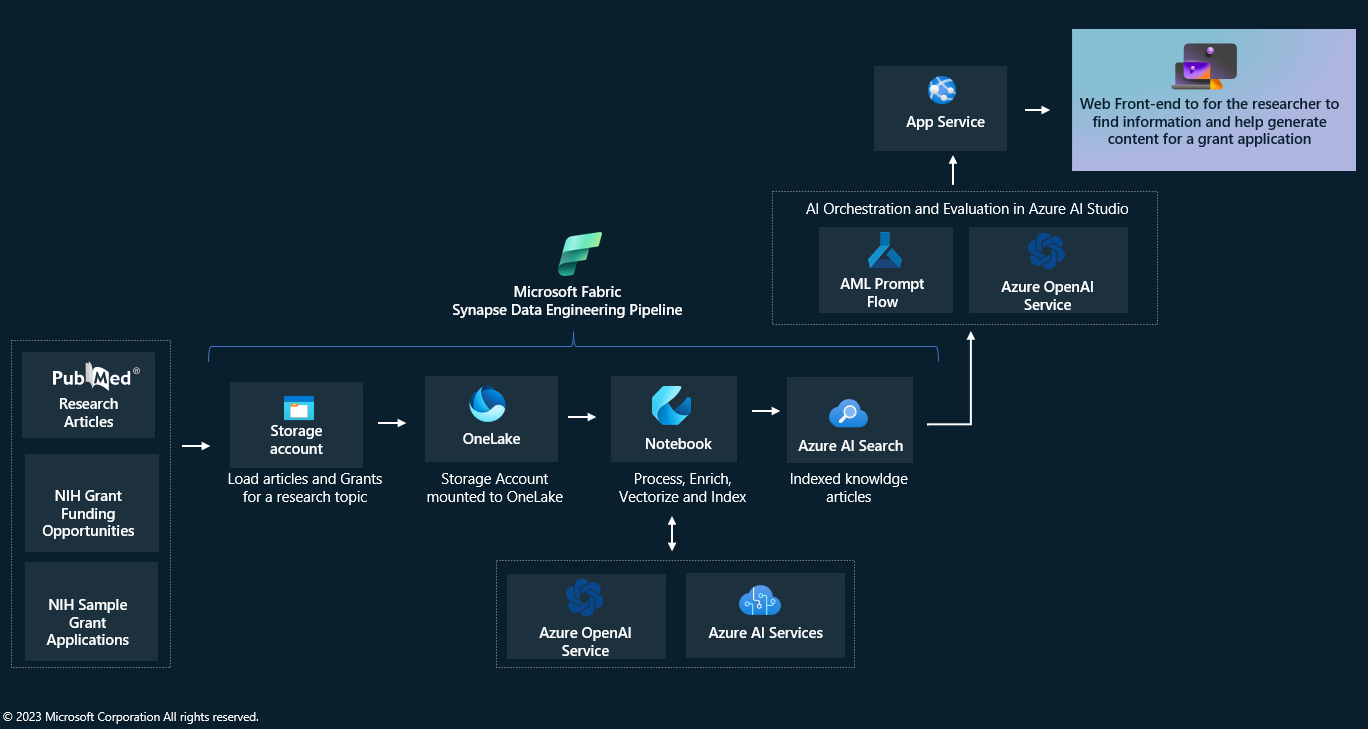
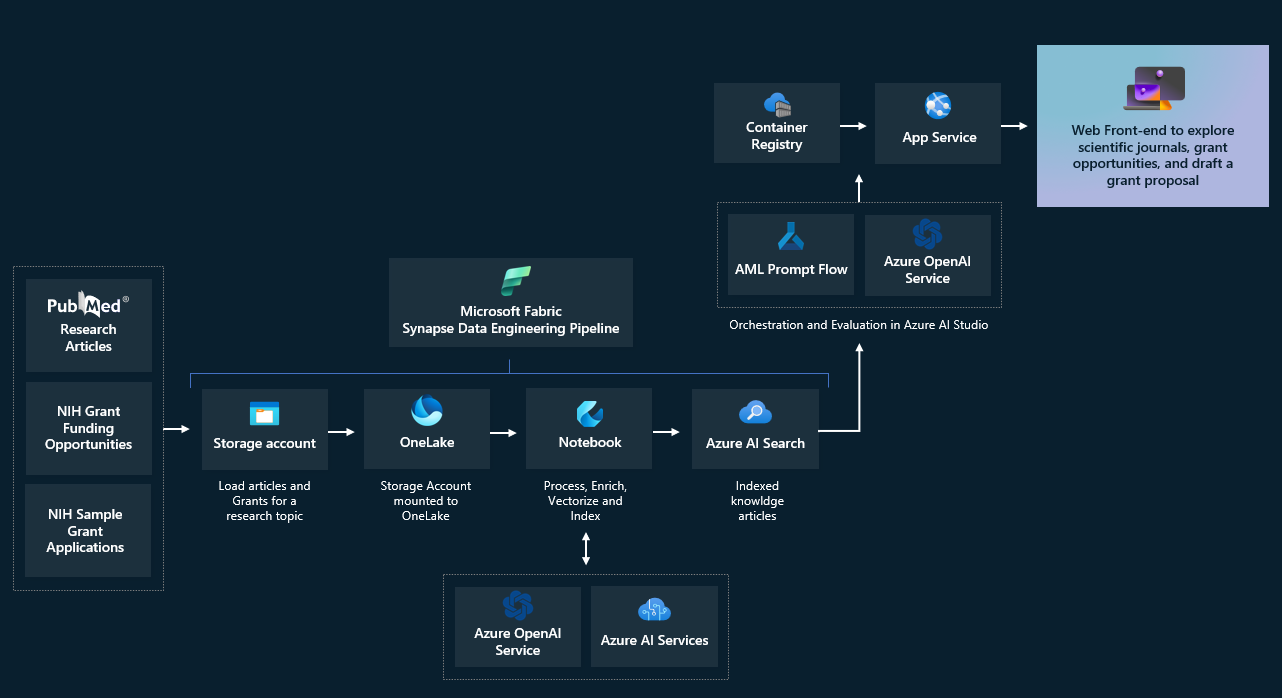
Readme and Deployment Steps Changes

diff --git a/README.md b/README.md
@@ -3,32 +3,32 @@
 MENU: [**USER STORY**](#user-story) \| [**ONE-CLICK DEPLOY**](#one-click-deploy)  \| [**SUPPORTING DOCUMENTS**](#supporting-documents) \|
 [**CUSTOMER TRUTH**](#customer-truth)
 
-<h2><img src="images/readMe/userStory.png" width="64">
+<h2><img src="Deployment/images/readMe/userStory.png" width="64">
 <br/>
 User story
 </h2>
 
 **Solution accelerator overview**
 
-This solution accelerator helps you build your own AI assistant quickly using Azure OpenAI Service, Azure AI Search and Microsoft Fabric. While we have used Research Assistant as an example scenario, this can be used by any customers looking for reusable architecture and code snippets to build AI assistants with their own enterprise data. More details TBD.
+This solution accelerator helps build your own AI assistants quickly using Azure Open AI Service, Azure AI Search and Microsoft Fabric. While we have used Research Grant Writer Assistant as an example scenario, this can be used by any customer looking for reusable architecture and code snippets to build AI assistants with their own enterprise data.
 
 **Scenario**
 
-This example scenario shows how a researcher can use AI to find relevant research articles and grants available for a topic. It also helps the researcher create a draft grant proposal quickly.
+The Grant Writer assistant helps the researchers find relevant articles and grants available for their research topic easily using a conversational chatbot. It also accelerates the grant application creation process with the power of large language models and content generation techniques. Researcher can generate different sections of a grant application with a simple button click, then they can refine the prompts and regenerate individual sections to add more details as needed. Finally, the generated grant application can be exported as a PDF or a Microsoft Word document for further processing.
 
 **Key features**
 
-- **Fabric for Data Engineering at scale**  Fabric Description TBD.
-- **Azure AI Search as vector store** Azure AI Search Description TBD
-- **Azure Open AI Service** Azure Open AI Description TBD
-- **Azure AI Studio** AI Studio Description TBD
-- **Prompt Flow Evaluation** LLM Evaluation Description TBD
+- **Fabric for Data Engineering at scale**  Fabric pipelines help process data mounted from Azure Storage Account at scale and add to AI search index with vector embeddings.
+- **Azure AI Search as vector store** Azure AI search to enable Retrieval Augmented Generation and ground the application on collected articles and grants dataset.
+- **Azure Open AI Service** Azure Open AI service to help researchers in content search, summarization and text generation for grant application drafts.
+- **Azure AI Studio** AI Studio to help build the chat and text generation flow deployments easily and to also validate and improve the LLM responses.
+- **Prompt Flow Evaluation** Promptflow evaluation tools to help test the flows for relevance,groundedness and any harmful content generation.
 
-**Below is an image of the solution accelerator.**\
-\
-![image](images/readMe/landing_page.png)
+**Below is an image of the solution accelerator.**
+    ![Landing Page](/Deployment/images/readMe/landing_page.png)
 
-<h2><img src="images/readMe/oneClickDeploy.png" width="64">
+
+<h2><img src="Deployment/images/readMe/oneClickDeploy.png" width="64">
 <br/>
 One-click deploy
 </h2>
@@ -44,7 +44,7 @@ For additional training and support, please see:
 3. [Microsoft Fabric](https://learn.microsoft.com/en-us/fabric/) 
 
 ### Solution accelerator architecture
-![image](/images/readMe/image4.png)
+![image](/Deployment/images/readMe/architecture.png)
 
 ### **How to install/deploy**
 
@@ -52,16 +52,25 @@ For additional training and support, please see:
 
    [![Deploy to Azure](https://aka.ms/deploytoazurebutton)](https://portal.azure.com/#create/Microsoft.Template/uri/https%3A%2F%2Fraw.githubusercontent.com%2Fnchandhi%2Fncbyctestrepo%2Fmain%2FDeployment%2Fbicep%2Fmain.json)
 
-2.  Most fields will have a default name set already. You will need to update the following settings:
+2. You will need to select an Azure Subscription, create/select a Resource group, Region and a unique Solution Prefix.
 
-3.   When deployment is complete, launch the application by navigating to
+   ![image](/Deployment/images/readMe/armDeployment.png)
+
+3. When deployment is complete, launch the application by navigating to
     your Azure resource group, choosing the app service resource, and
     clicking on the default domain. You should bookmark this URL to have quick access to your deployed application.
+
+4. Follow steps in [AI Studio Deployment guide](./Deployment/AIStudioDeployment.md) to set up the grant draft proposal endpoint.
+
+<!-- 5. Follow steps in [Fabric Deployment guide](./Deployment/FabricPipelines.md) to set up the data processing pipelines. -->
+
+6. Follow steps in [Promptflow Evaluation guide](./Deployment/PromptFlowEvaluation.md) to set up the the evaluation flows.
+
 
 
 <br/>
 <br>
-<h2><img src="images/readMe/customerTruth.png" width="64">
+<h2><img src="Deployment/images/readMe/customerTruth.png" width="64">
 </br>
 Customer truth
 </h2>

diff --git a/Deployment/AIStudioDeployment.md b/Deployment/AIStudioDeployment.md
@@ -1,0 +1,109 @@
+# AI Studio Deployment Guide 
+Please follow the steps below to set up the AI Studio Hub, Project, PromptFlow and Deploy as endpoint. Clone or download this repository before you start following the steps below.
+
+## Step 1: Create AI Studio Project
+1. Launch the AI Studio [AI Studio](https://ai.azure.com/)
+2. Click on `New AI Project`
+
+   ![New AI Project](/Deployment/images/aiStudio/NewProject.png)
+
+3. Enter a Project Name and click on `Create a New Resource`
+    ![Getting Started](/Deployment/images/aiStudio/GettingStarted.png)
+
+4. Enter a new AI Hub Resource Name. And then select Azure Subscription, Resource Group, Location from drop-down menus. You should choose the same resource group you created from ARM deployment in previous step. 
+    > NOTE: Do not create new resources in this step and link to the ones created during one-click deployment.
+
+    ![Create AI Hub](/Deployment/images/aiStudio/CreateAIHub.png)
+
+    ![Select Resource Group](/Deployment/images/aiStudio/SelectResourceGroup.png)
+
+5. Select Azure OpenAI resource from drop-down menu.
+
+6. Select Azure AI Search resource from drop-down menu.
+
+7. Click on `Next` button
+
+8. Review the details and click on `Create an AI Project` button.
+
+    ![Review and Finish](/Deployment/images/aiStudio/ReviewFinish.png)
+
+
+[Learn more about AI Studio Projects](https://learn.microsoft.com/en-us/azure/ai-studio/how-to/create-projects)
+
+
+## Step 2: Import Prompt Flow and Deploy
+
+1. Click on `PromptFlow` button from left menu under `Tools`
+
+    ![Prompt Flow](/Deployment/images/aiStudio/PromptFlow.png)
+
+2. Click on `Create` button. Then click on `Upload` button from `Upload From Local` option from the last row.
+    
+    ![Upload](/Deployment/images/aiStudio/UploadFromLocal.png)
+
+3. Click on `Zip File` radio button. Then click on `Browse` to select the file `DraftFlow.zip` from the cloned/downloaded GitHub repository folder. The file will be located at `<Your Download Folder Path>/Deployment/scripts/ai_hub_scripts/flows/`
+
+    ![Select Local File](/Deployment/images/aiStudio/SelectLocalFile.png)
+
+4. Once the DraftFlow.zip file is uploaded, change folder name to `DraftFlow` and Select Flow type as `Chat Flow` and click on `Upload` button.
+
+    ![Upload Local File](/Deployment/images/aiStudio/UploadLocalFile.png)
+
+
+5. Click on `Select runtime` and chick on `Start` from the drop-down list. It can take few minutes for the runtime to start.
+
+    ![Select Runtime](/Deployment/images/aiStudio/SelectRunTime.png)
+
+6. Click on `Deploy` button once it is enabled. Enter `draftsinference` as the Endpoint Name. You can leave the Deployment name, Virtual machine type, and Instace count as populated and click on `Review + Create`. Optionally you can choose a different VM type/size and increase/decrease the Instance count as needed. Then review details and click on `Create` in the next screen.
+
+    ![Deploy Draft Flow](/Deployment/images/aiStudio/DeployDraftFlow.png)
+
+7. It will take few minutes for the flow to be validated and deployed. Click on `Deployments` from left menu. You might only see the Default_AzureOpenAI deployments in the page until the deployment is completed. Please wait and click on `Refresh` after few minutes.
+
+   ![Deployments Page](/Deployment/images/aiStudio/BlankDeploymentsPage.png)
+
+
+8. Click on the deployed endpoint with name `draftsinference-1`
+   ![Drafts Endpoint](/Deployment/images/aiStudio/DraftsEndpoint.png)
+
+9. Click on `Consume` from the top menu. Copy below details to use later in step 3.7 
+- Deployment
+- REST endpoint
+- Primary key
+
+    ![Drafts Endpoint Consume](/Deployment/images/aiStudio/DraftsEndpointConsume.png)
+
+
+## Step 3: Update the deployment keys in Azure App Service configuration
+1. Launch the Azure Portal [Azure Portal](https://portal.azure.com/)
+2. Enter `Resource Groups` in the top search bar.
+
+    ![Search Resource Groups](/Deployment/images/aiStudio/AzurePortalResourceGroups.png)
+
+3. Locate your Resource Group you selected/created during one-click deployment and click on it.
+
+4. Locate the App Service in the Resource Group and click on it.
+
+5. Click on `Environment Variables` from left menu under `Settings`
+
+    ![Application Environment Variables](/Deployment/images/aiStudio/AppEnvironmentVariables.png)
+
+6. Modify the below variables with values collected in step 2.8 above
+- AI_STUDIO_DRAFT_FLOW_ENDPOINT
+- AI_STUDIO_DRAFT_FLOW_API_KEY
+- AI_STUDIO_DRAFT_FLOW_DEPLOYMENT_NAME
+
+7. Click on `Apply` button at the bottom of the screen. Then click on `Confirm` in the pop-up.
+
+    ![Application Environment Variables Confirm](/Deployment/images/aiStudio/AppEnvironmentVariablesConfirm.png)
+
+8. Click on `Overview` from the left menu. Then click on `Restart` button in the top menu. Then click on `Yes` in the pop-up message. 
+
+   ![Application Restart](/Deployment/images/aiStudio/AppServiceRestart.png)
+
+    
+
+
+
+
+

diff --git a/Deployment/PromptFlowEvaluation.md b/Deployment/PromptFlowEvaluation.md
@@ -1,0 +1,57 @@
+# Setting up an Evaluation Flow in Prompt Flow
+<h2>
+Evaluation Flow
+</h2>
+
+**Evaluation Flow overview**
+
+Evaluation flows are special types of flows that assess how well the outputs of a run align with specific criteria and goals by calculating metrics.
+
+In prompt flow, you can customize or create your own evaluation flow and metrics tailored to your tasks and objectives, and then use it to evaluate other flows
+
+
+
+### **How to run Evaluation Flow**
+
+1. Go to https://ai.azure.com/
+
+   
+2.  Locate your AI project under recent projects.
+ <img src="images/evaluation/image1.png" >
+
+        
+3.  Once inside your project select Evaluation from the left dropdown menu 
+ <img src="images/evaluation/image2.png" >
+
+
+
+4. From your Evaluation view, select New evaluation in the middle of the page 
+ <img src="images/evaluation/image3.png" >
+
+
+5.  From here you can create and name a new evaluation, select your scenario, 
+ <img src="images/evaluation/image4.png" >
+
+6. Select the flow you want to evaluate. (To evaluate the DraftFlow select DraftFlow here)
+ <img src="images/evaluation/image5.png" >
+
+7. Select metrics you would like to use Also be sure to select an active Connection and active Deployment name/Model
+ <img src="images/evaluation/image6.png" >
+
+8. Use an existing dataset or upload a dataset to use in evaluation. 
+ <img src="images/evaluation/image7.png" >
+
+
+9. Lastly map the inputs from your dataset and click submit
+ <img src="images/evaluation/image8.png" >
+
+
+
+### Results
+
+Once the flow has been ran successfully the metrics will be displayed showing a 1-5 score of each respective metric. From here you can click into the evaluation flow to get a better understanding of the scores.
+ <img src="images/evaluation/image9.png" >
+ <img src="images/evaluation/image10.png" >
+
+
+
